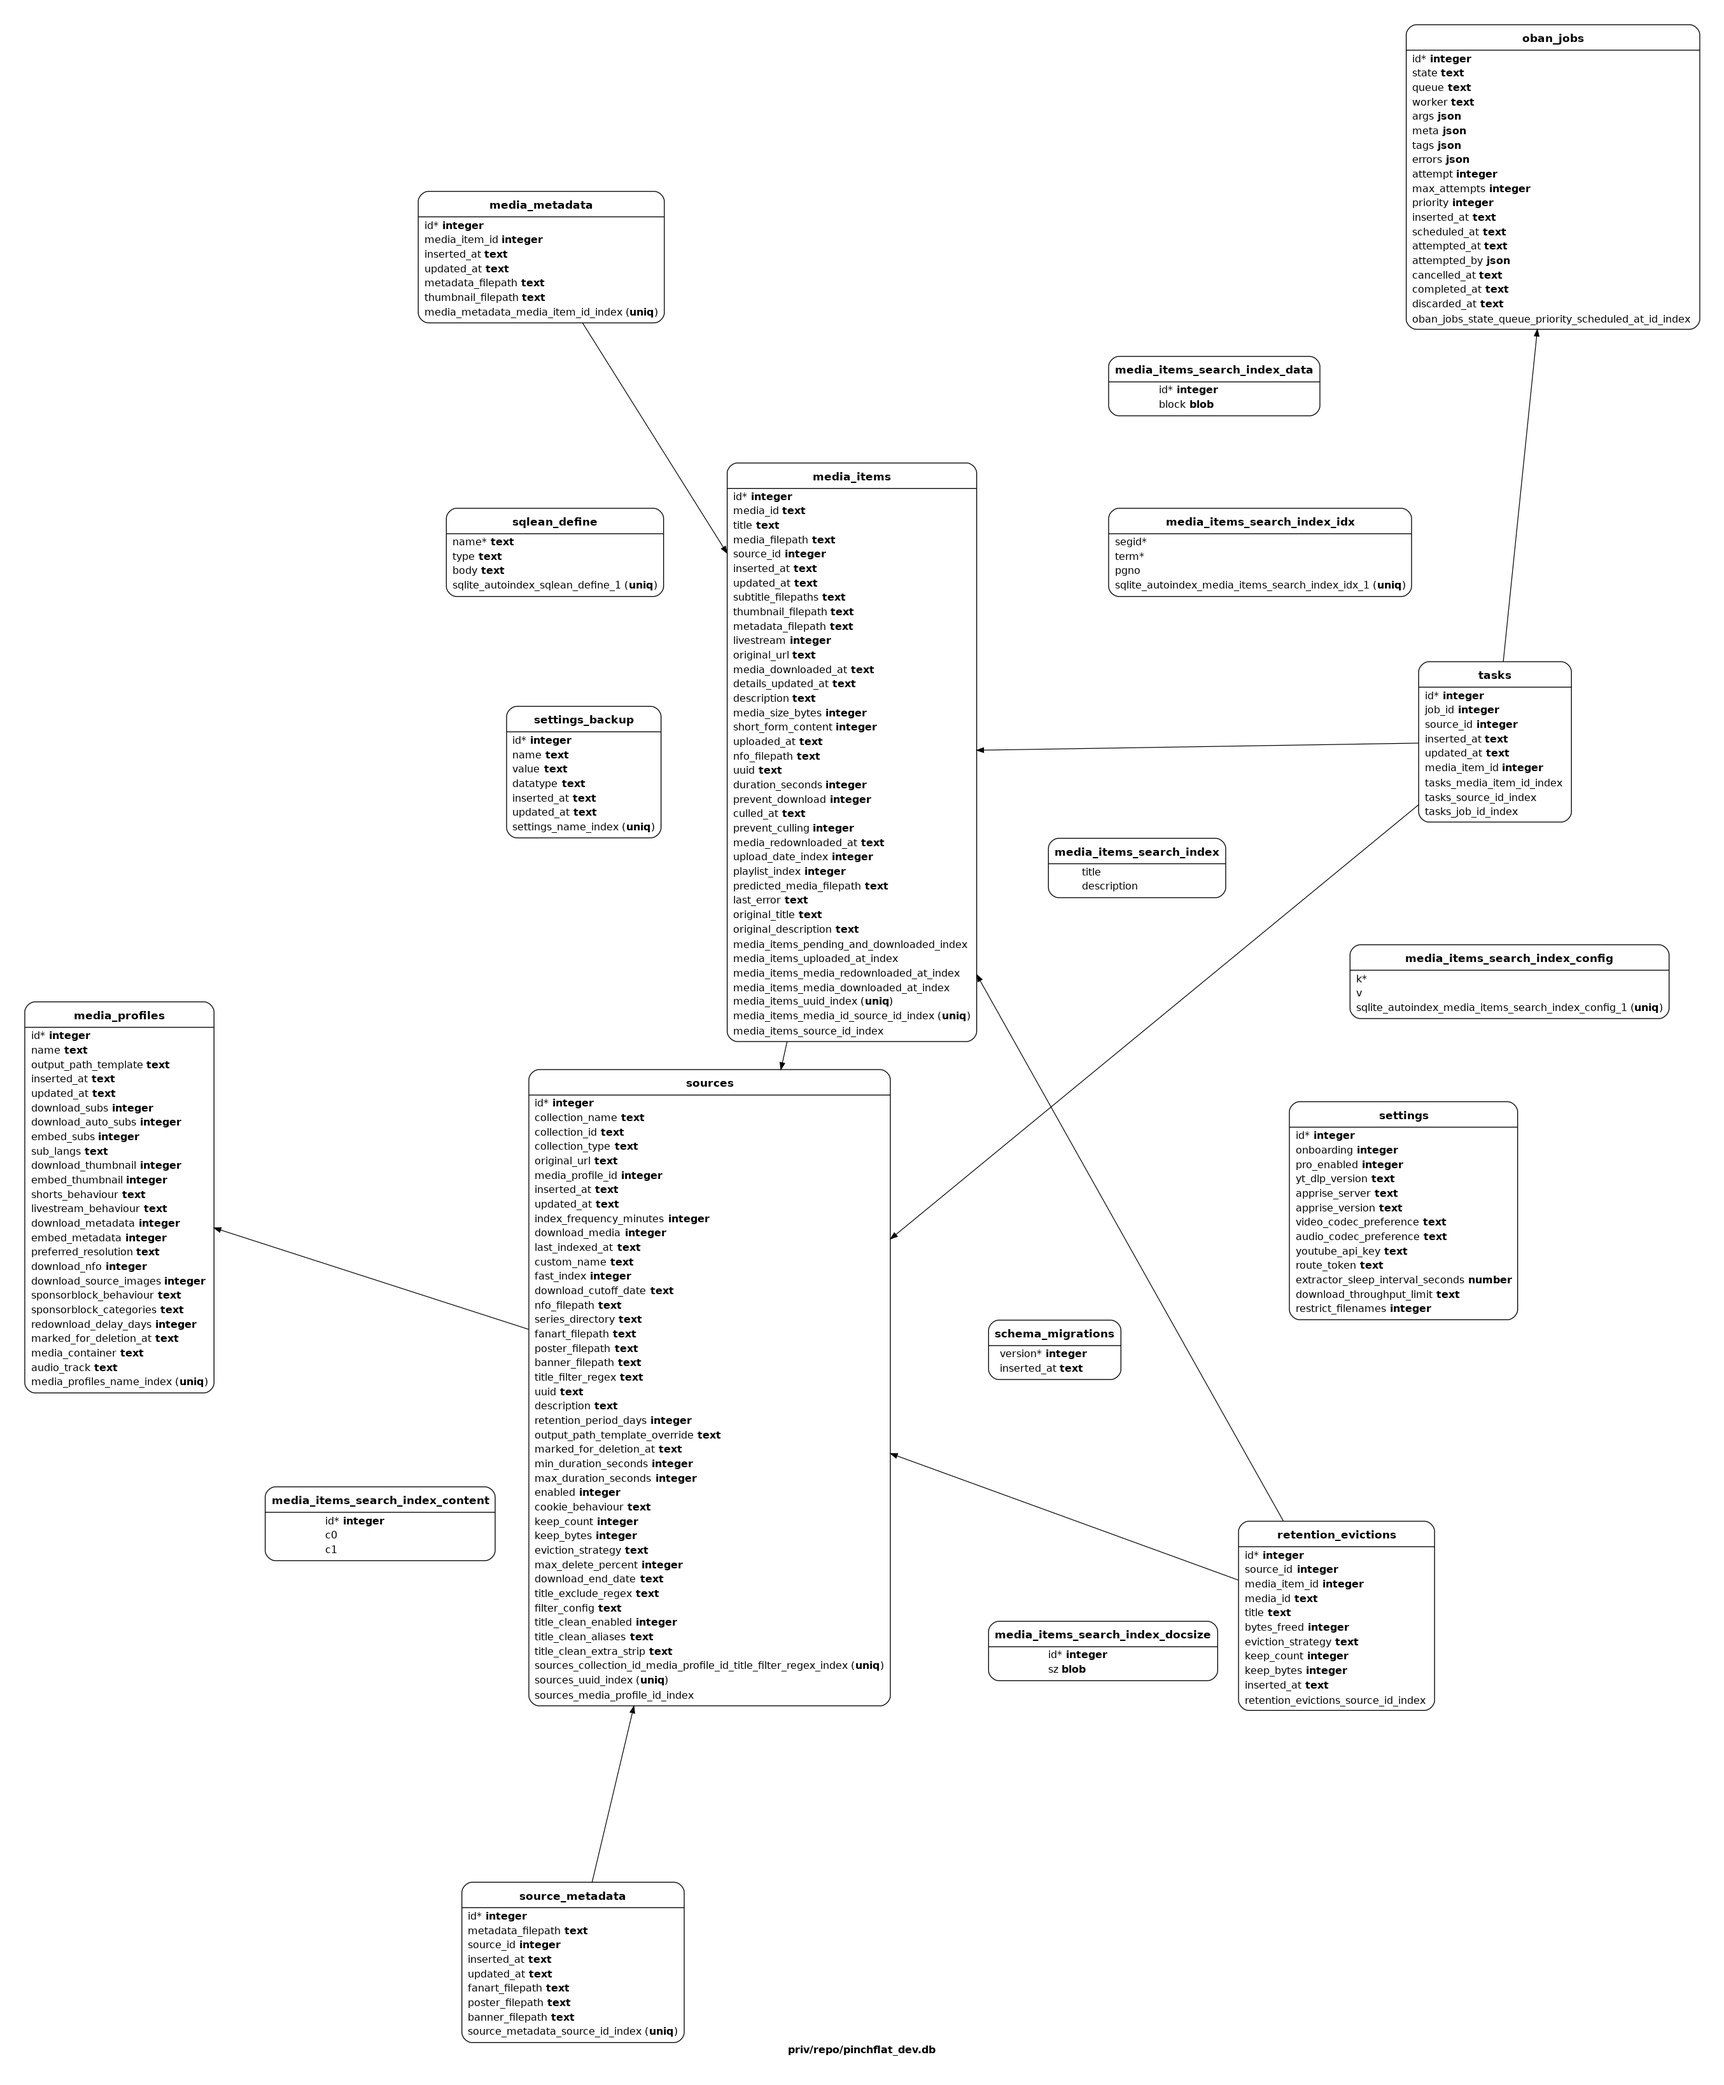
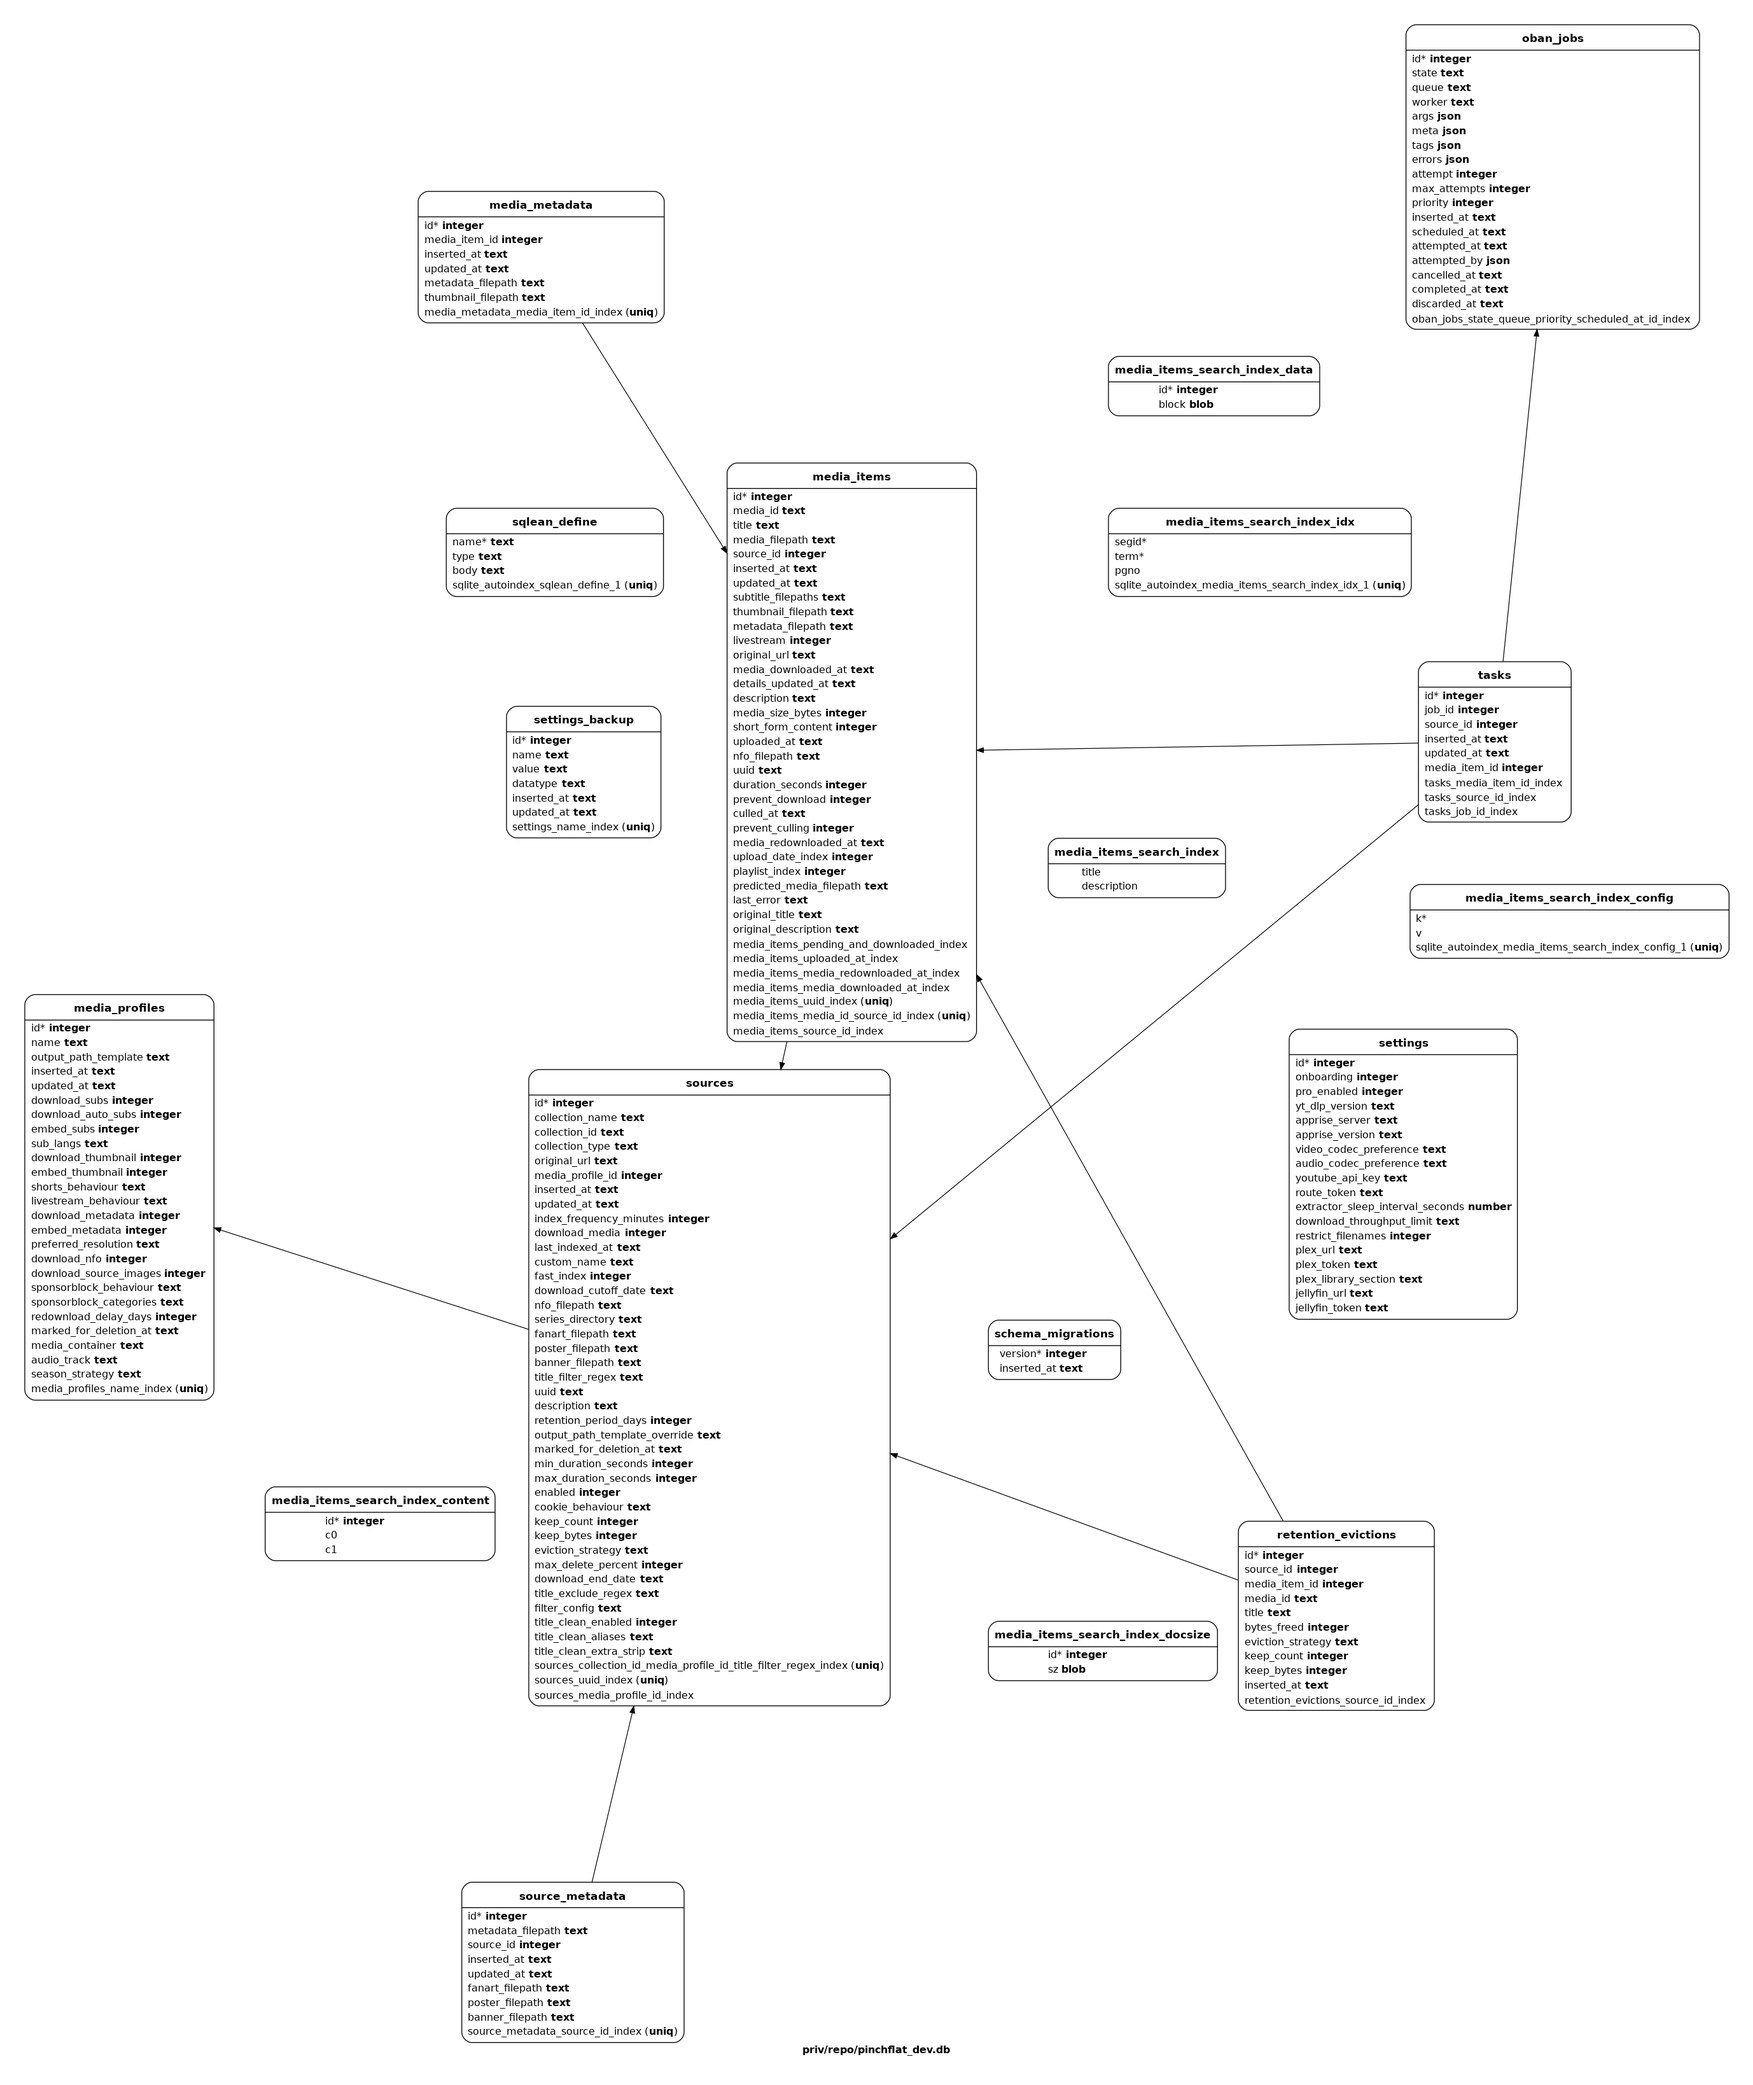
Phase F: poster manager + fork-features docs
LiveView at /posters lists sources with their current poster.jpg; select a
source, drop or pick an image, and it writes the poster into the show folder
(atomic), updates poster_filepath, and fires a Plex/Jellyfin refresh. First use
of LiveView uploads in the app. GET /sources/:id/poster streams the current
image. Replaces the poster-manager sidecar.

Also documents the native sidecar replacements in docs/fork-features.md.

diff --git a/docs/fork-features.md b/docs/fork-features.md
@@ -117,6 +117,28 @@ In-list live highlighting on the main media tables, more rule fields (date, shor
 
 ---
 
+## Native sidecar replacements
+
+Brings the `arr-matey` sidecars in-app so no external process writes the live SQLite DB.
+
+### Title cleaning
+
+Per-source rules strip YouTube clickbait (emoji, hashtags, channel handles, brand tags, "Full Episode" markers, season/episode markers, per-channel taglines) from titles. `Pinchflat.Metadata.TitleCleaner` is a pure port of the `cleaner.py` sidecar. The raw title/description are preserved (`media_items.original_title`/`original_description`) so rules can change and be re-applied; `title` holds the cleaned value the NFO/filename/search already consume. Rules (`title_clean_enabled` + `aliases` + `extra_strip`, validated) live in a **Titles** tab on the source form with a live preview (`GET /sources/:id/title_clean_preview`) of original → cleaned pairs.
+
+### Media organizer (clean titles on disk + season strategy)
+
+`Pinchflat.Organizing.MediaOrganizer` reconciles a downloaded item's on-disk layout: it computes the desired path (sanitized clean title + a stable, no-reshuffle season/episode prefix from the profile's `season_strategy`), then two-phase renames media + subtitles (vacate-all then place-all so a renumber can't collide), retags the mp4's embedded tags (`Mp4Tagger`, bundled ffmpeg `-c copy`, behind an injectable runner), rewrites the `.nfo`, and updates the DB. Idempotent; preserves the existing show directory (dodging yt-dlp's channel-name sanitization); skips items with an in-flight download; only touches opted-in sources. `season_strategy` (`:none`/`:single_season`/`:by_year`/`:by_month`) is a media-profile select. `:none` keeps the existing prefix and only swaps in the clean title. Replaces the titleclean file/tag side + normalize-seasons.
+
+- Triggered after a download (`MediaOrganizeWorker`, per-source, unique) and by the **Reprocess Media** source action (`force: true`) which re-applies current rules to the existing library. Stable numbering means culls don't reshuffle survivors, so no cron is needed.
+
+### Media center refresh
+
+`Pinchflat.MediaCenter` fires a Plex section refresh (`X-Plex-Token`) and/or Jellyfin library refresh (`MediaBrowser` token) after the organizer changes files or a poster is replaced. Connection details in Settings; blank = skipped; runs detached so a slow server never blocks a job. Added a `post` callback + request timeouts to the HTTP client.
+
+### Poster manager
+
+A LiveView at `/posters` lists sources with their current `poster.jpg`; select a source, drop/choose an image, and it writes the poster into the show folder (atomic), updates `poster_filepath`, and fires a media-center refresh. First use of LiveView uploads in the app. Replaces the poster-manager sidecar.
+
 ## UX overhaul ("Control Room")
 
 A cohesive visual language and layout pass across the subscription lifecycle. Shared kit in `PinchflatWeb.CustomComponents.DashboardComponents` (stat_tile, status_pill, sparkline, line_sparkline, change_badge, activity_graph, config_card/config_kv, source_avatar). Keeps the existing palette; adds `font-mono` for data.
